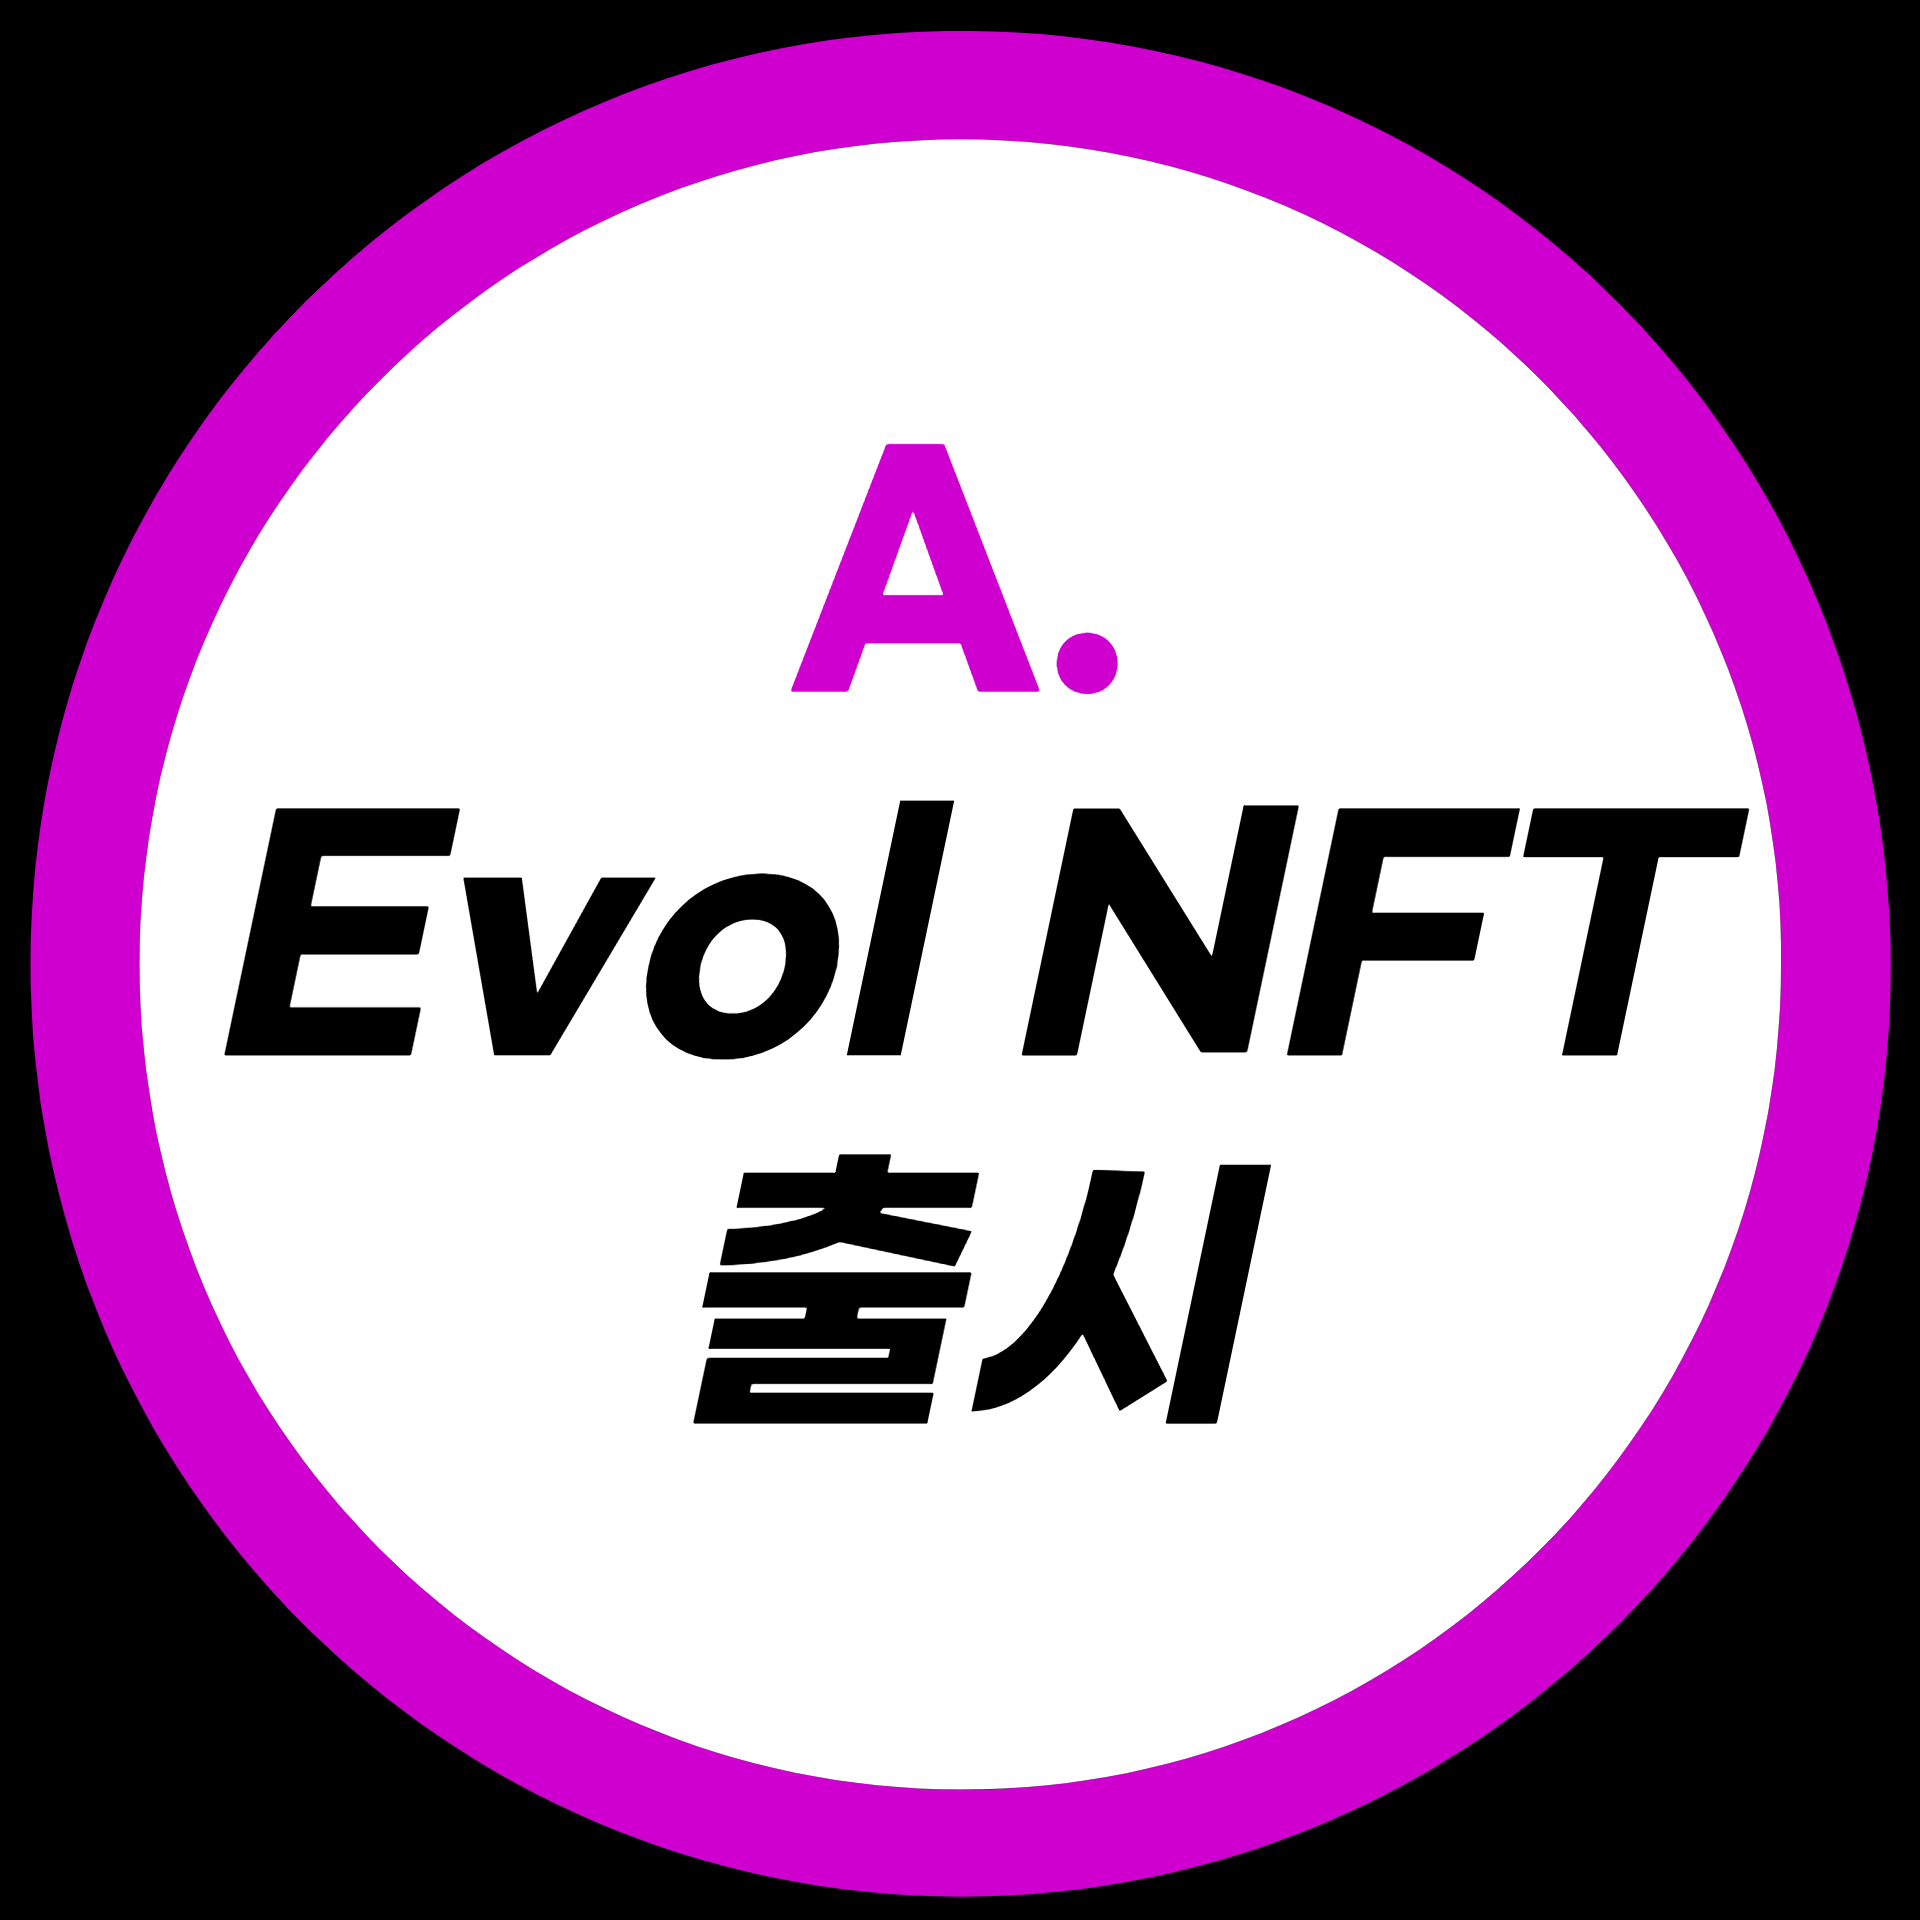
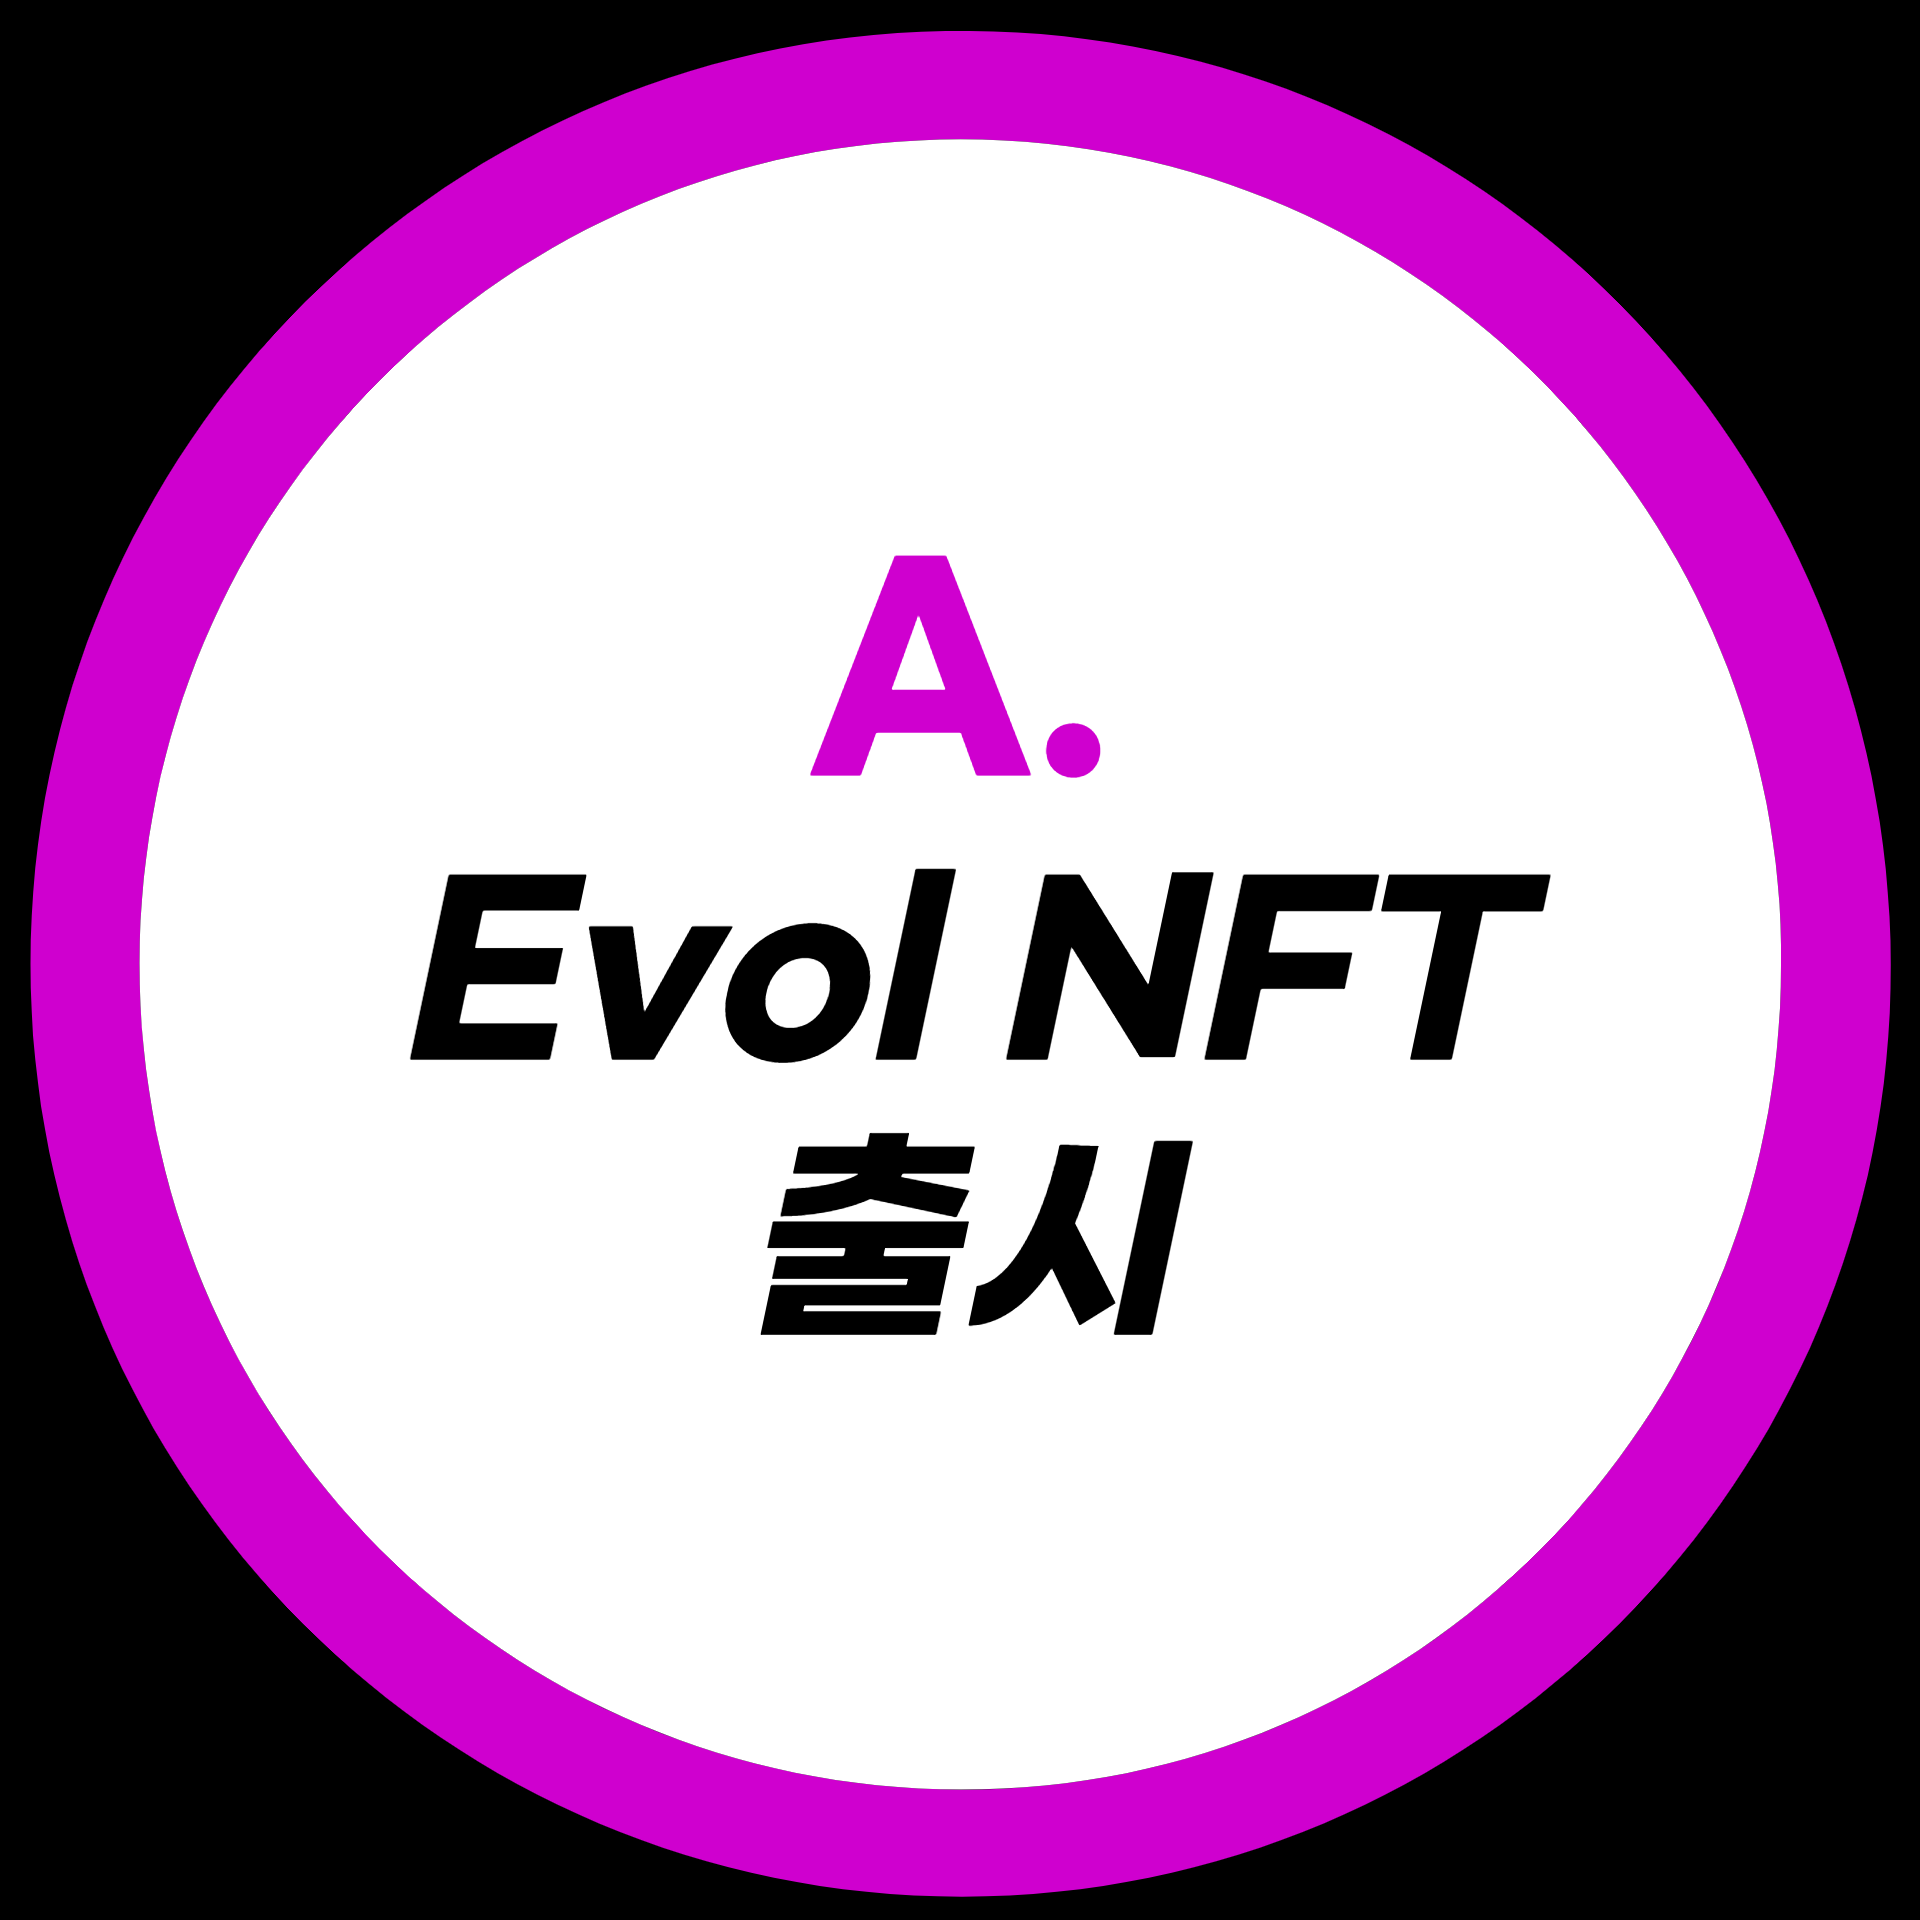
Release v1

Changed region(s): [[0.0938, 0.2188, 0.9062, 0.5625], [0.3438, 0.5938, 0.6562, 0.75]]

diff --git a/style.css b/style.css
@@ -417,6 +417,7 @@ ul {
   margin: auto;
   text-align: center;
   margin-top: 11%;
+  text-shadow: 0 0 7px #ac01b4, 0 0 10px #ac01b4, 0 0 21px #ac01b4;
 }
 
 .intro_text > h3 {
@@ -426,13 +427,11 @@ ul {
 }
 
 .intro_text > h1 {
+  color: #fff;
   margin-top: -10px;
   font-size: 104px;
   font-style: italic;
   font-family: "GmarketSansBold";
-  background: linear-gradient(to top, #3f0eac, #ff00cc);
-  color: transparent;
-  -webkit-background-clip: text;
 }
 
 .intro_text > h2 {
@@ -752,7 +751,7 @@ ul {
 }
 
 .half_life_graph {
-  position: relative;
+  display: block;
   background-image: url(image/about/about_half_life_graph.png);
   background-repeat: no-repeat;
   background-position: center;
@@ -762,9 +761,11 @@ ul {
 }
 
 .half_life_text {
-  position: absolute;
-  top: 20%;
-  right: 15%;
+  text-align: center;
+}
+
+.half_life_text > h3 {
+  font-size: 20px;
 }
 
 .life_cycle > .feature_content_header {
@@ -977,6 +978,7 @@ ul {
 
 .type_level {
   position: relative;
+  padding-bottom: 5%;
 }
 
 .type_level > h2 {
@@ -1070,7 +1072,8 @@ ul {
 .faq_02,
 .faq_03,
 .faq_04,
-.faq_05 {
+.faq_05,
+.faq_06 {
   text-align: left;
   font-family: "GmarketSansBold";
 }
@@ -1079,7 +1082,8 @@ ul {
 .faq_02 > li,
 .faq_03 > li,
 .faq_04 > li,
-.faq_05 > li {
+.faq_05 > li,
+.faq_06 > li {
   display: flex;
   position: relative;
   height: 60px;
@@ -1092,7 +1096,8 @@ ul {
 .faq_02 > li > h2,
 .faq_03 > li > h2,
 .faq_04 > li > h2,
-.faq_05 > li > h2 {
+.faq_05 > li > h2,
+.faq_06 > li > h2 {
   display: block;
   margin: 0;
   margin-top: 15px;
@@ -1103,7 +1108,8 @@ ul {
 .faq_02 > li > h3,
 .faq_03 > li > h3,
 .faq_04 > li > h3,
-.faq_05 > li > h3 {
+.faq_05 > li > h3,
+.faq_06 > li > h3 {
   display: block;
   margin: 0;
   margin-top: 15px;
@@ -1116,7 +1122,8 @@ ul {
 .faq_02_btn,
 .faq_03_btn,
 .faq_04_btn,
-.faq_05_btn {
+.faq_05_btn,
+.faq_06_btn {
   position: absolute;
   width: 40px;
   height: 30px;
@@ -1133,7 +1140,8 @@ ul {
 .faq_02_btn:hover,
 .faq_03_btn:hover,
 .faq_04_btn:hover,
-.faq_05_btn:hover {
+.faq_05_btn:hover,
+.faq_06_btn:hover {
   background: #ac01b4;
 }
 
@@ -1141,7 +1149,8 @@ ul {
 .answer_02,
 .answer_03,
 .answer_04,
-.answer_05 {
+.answer_05,
+.answer_06 {
   display: none;
   margin-left: 10%;
   margin-right: 10%;
@@ -1159,7 +1168,8 @@ ul {
 .answer_02.active,
 .answer_03.active,
 .answer_04.active,
-.answer_05.active {
+.answer_05.active,
+.answer_06.active {
   display: flex;
   opacity: 0;
   animation: fadeInText 0.4s ease-out forwards;
@@ -1334,21 +1344,23 @@ footer > div > div:first-child {
     background-repeat: no-repeat;
     background-image: url(image/banner_mobile.png);
     background-size: contain;
-    /* transform: scale(1.1); */
   }
 
   .intro_text {
-    margin-top: 40%;
+    margin-top: 50%;
   }
 
   .intro_text > h3 {
     margin: 20% 0;
     font-size: 24px;
+    line-height: 0;
   }
 
   .intro_text > h1 {
     margin: 20% 0;
     font-size: 54px;
+    line-height: 0px;
+    padding-bottom: 10%;
   }
 
   .intro_text > h2 {
@@ -1397,6 +1409,10 @@ footer > div > div:first-child {
     line-height: 0;
   }
 
+  .feature_content_header > ul > li > h5 {
+    font-size: 15px;
+  }
+
   .feature_content_img {
     margin-top: -8%;
     padding-bottom: 10%;
@@ -1416,8 +1432,7 @@ footer > div > div:first-child {
   }
 
   .evol > img {
-    width: 100%;
-    transform: scale(1.2);
+    width: 90%;
   }
 
   .evol > div > ul {
@@ -1492,8 +1507,8 @@ footer > div > div:first-child {
   }
 
   .half_life_text {
-    top: 40%;
-    right: 5%;
+    margin-top: -40%;
+    padding-bottom: 10%;
   }
   .half_life_text > h3 {
     font-size: 10px;
@@ -1638,7 +1653,8 @@ footer > div > div:first-child {
   .faq_02,
   .faq_03,
   .faq_04,
-  .faq_05 {
+  .faq_05,
+  .faq_06 {
     margin-left: 3%;
     margin-right: 3%;
   }
@@ -1647,7 +1663,8 @@ footer > div > div:first-child {
   .faq_02 > li,
   .faq_03 > li,
   .faq_04 > li,
-  .faq_05 > li {
+  .faq_05 > li,
+  .faq_06 > li {
     display: block;
     background: none;
     height: 115px;
@@ -1666,7 +1683,8 @@ footer > div > div:first-child {
   .faq_02 > li > h2,
   .faq_03 > li > h2,
   .faq_04 > li > h2,
-  .faq_05 > li > h2 {
+  .faq_05 > li > h2,
+  .faq_06 > li > h2 {
     margin-left: 3%;
     margin-right: 3%;
     margin-top: 0px;
@@ -1676,7 +1694,8 @@ footer > div > div:first-child {
   .faq_02 > li > h3,
   .faq_03 > li > h3,
   .faq_04 > li > h3,
-  .faq_05 > li > h3 {
+  .faq_05 > li > h3,
+  .faq_06 > li > h3 {
     font-size: 18px;
   }
 
@@ -1684,6 +1703,7 @@ footer > div > div:first-child {
   .answer_02,
   .answer_03,
   .answer_04,
+  .answer_05,
   .answer_05 {
     margin-left: 10%;
     margin-right: 10%;

diff --git a/index.html b/index.html
@@ -199,13 +199,12 @@
                             <h3>정해진 기간마다 성장 확률 반감기 적용</h3>
                           </div>
                           <div class="half_life_content">
-                            <div class="half_life_graph">
-                              <div class="half_life_text">
-                                <h3>
-                                  진화 시작 7개월 이후부터는 매 달 반감기가
-                                  적용됩니다.
-                                </h3>
-                              </div>
+                            <div class="half_life_graph"></div>
+                            <div class="half_life_text">
+                              <h3>
+                                진화 시작 7개월 이후부터는 매 달 반감기가
+                                적용됩니다.
+                              </h3>
                             </div>
                           </div>
                         </div>
@@ -520,10 +519,34 @@
                   <div class="answer_05">
                     <li>
                       <h3>
-                        민팅이 완료된 이후 ?일 뒤부터 각 NFT는 일정한 확률로
-                        진화하게 됩니다. <br />
+                        판매 개시일부터 2주 뒤 진화가 시작됩니다. <br />
+                        민팅이 완판되는 경우, 해당 시점에서 7일 뒤부터 각 NFT는
+                        일정한 확률로 진화하게 됩니다. <br />
                         100% 코드로 구성되어 있으며 오전에 진화를 거치고, 오후에
                         결과를 확인할 수 있습니다.
+                      </h3>
+                    </li>
+                  </div>
+                </div>
+                <div class="area">
+                  <div class="faq_06">
+                    <li>
+                      <h2>Q6.</h2>
+                      <h3>
+                        선인장이 산란하는 경우, 선인장 메타세포만 나오나요?
+                      </h3>
+                      <div class="faq_06_btn">
+                        <i class="fas fa-angle-down"></i>
+                      </div>
+                    </li>
+                  </div>
+                  <div class="answer_06">
+                    <li>
+                      <h3>
+                        태초에 하나로 이루어진 메타세포는 5종으로
+                        분열하였습니다. <br />
+                        허나, 산란 시에 타 종의 메타세포가 생성된다는 사실을
+                        확인했습니다. 1종, 2종 등 타 종의 상관없이 산란합니다.
                       </h3>
                     </li>
                   </div>
@@ -601,7 +624,7 @@
 
           <ul class="community_icons">
             <li>
-              <a href="https://twitter.com/NFT_Kepler452b">
+              <a href="https://twitter.com/Kepler_NFT">
                 <i class="fab fa-twitter"></i>
               </a>
             </li>

diff --git a/main.js b/main.js
@@ -9,12 +9,14 @@ const faq_02_btn = document.querySelector(".faq_02_btn");
 const faq_03_btn = document.querySelector(".faq_03_btn");
 const faq_04_btn = document.querySelector(".faq_04_btn");
 const faq_05_btn = document.querySelector(".faq_05_btn");
+const faq_06_btn = document.querySelector(".faq_06_btn");
 
 const faq_answer_01 = document.querySelector(".answer_01");
 const faq_answer_02 = document.querySelector(".answer_02");
 const faq_answer_03 = document.querySelector(".answer_03");
 const faq_answer_04 = document.querySelector(".answer_04");
 const faq_answer_05 = document.querySelector(".answer_05");
+const faq_answer_06 = document.querySelector(".answer_06");
 
 toggleBtn.addEventListener("click", () => {
   menu.classList.toggle("active");
@@ -54,4 +56,8 @@ faq_04_btn.addEventListener("click", () => {
 
 faq_05_btn.addEventListener("click", () => {
   faq_answer_05.classList.toggle("active");
+});
+
+faq_06_btn.addEventListener("click", () => {
+  faq_answer_06.classList.toggle("active");
 });
